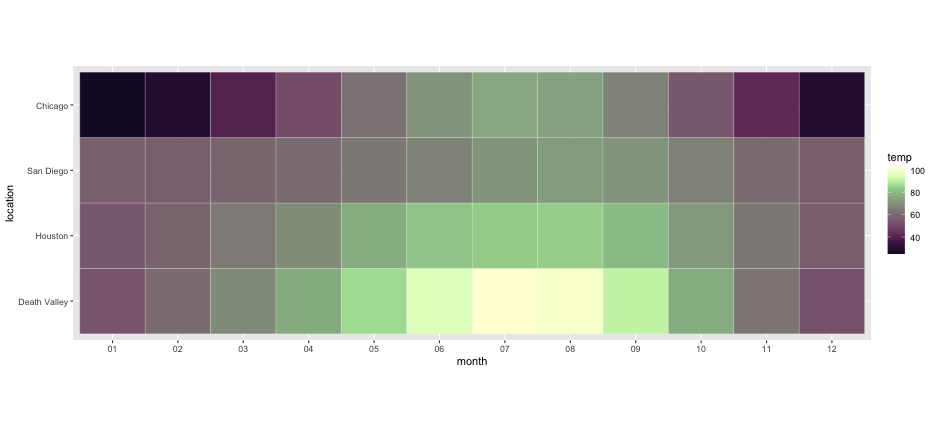
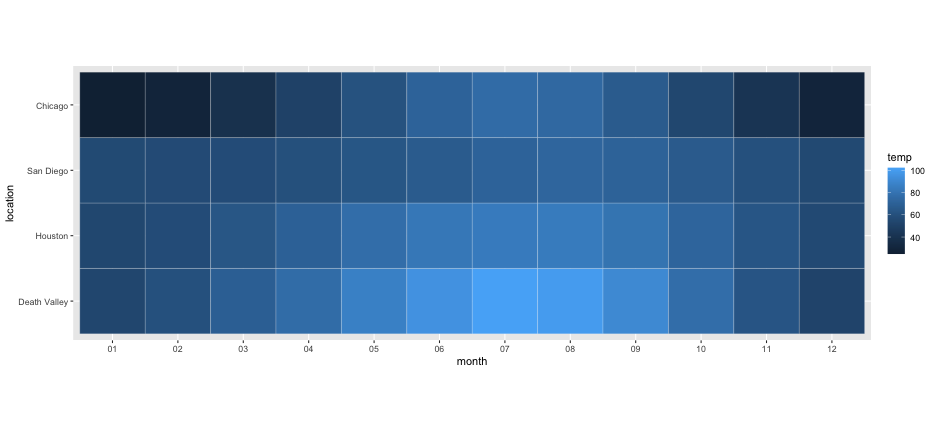
echo code for changing line color

diff --git a/static/slides/w4p1.html b/static/slides/w4p1.html
@@ -201,7 +201,15 @@ In other words, color is being mapped to data, and you have to change the color 
 
 --
 
-![](w4p1_files/figure-html/unnamed-chunk-3-1.png)&lt;!-- --&gt;
+
+```r
+ggplot(temps_long, aes(date, temperature)) +
+  geom_line(aes(color = location)) +
+  scale_color_brewer(palette = "Dark2")
+```
+
+---
+![](w4p1_files/figure-html/unnamed-chunk-4-1.png)&lt;!-- --&gt;
 
 ---
 # One more note on colors
@@ -236,7 +244,7 @@ temps_long %&gt;%
   coord_fixed()
 ```
 
-![](w4p1_files/figure-html/unnamed-chunk-4-1.png)&lt;!-- --&gt;
+![](w4p1_files/figure-html/unnamed-chunk-5-1.png)&lt;!-- --&gt;
 
 ---
 # Change the fill
@@ -253,7 +261,7 @@ temps_long %&gt;%
   scico::scale_fill_scico(palette = "tokyo")
 ```
 
-![](w4p1_files/figure-html/unnamed-chunk-5-1.png)&lt;!-- --&gt;
+![](w4p1_files/figure-html/unnamed-chunk-6-1.png)&lt;!-- --&gt;
 
 ---
 # Comparison
